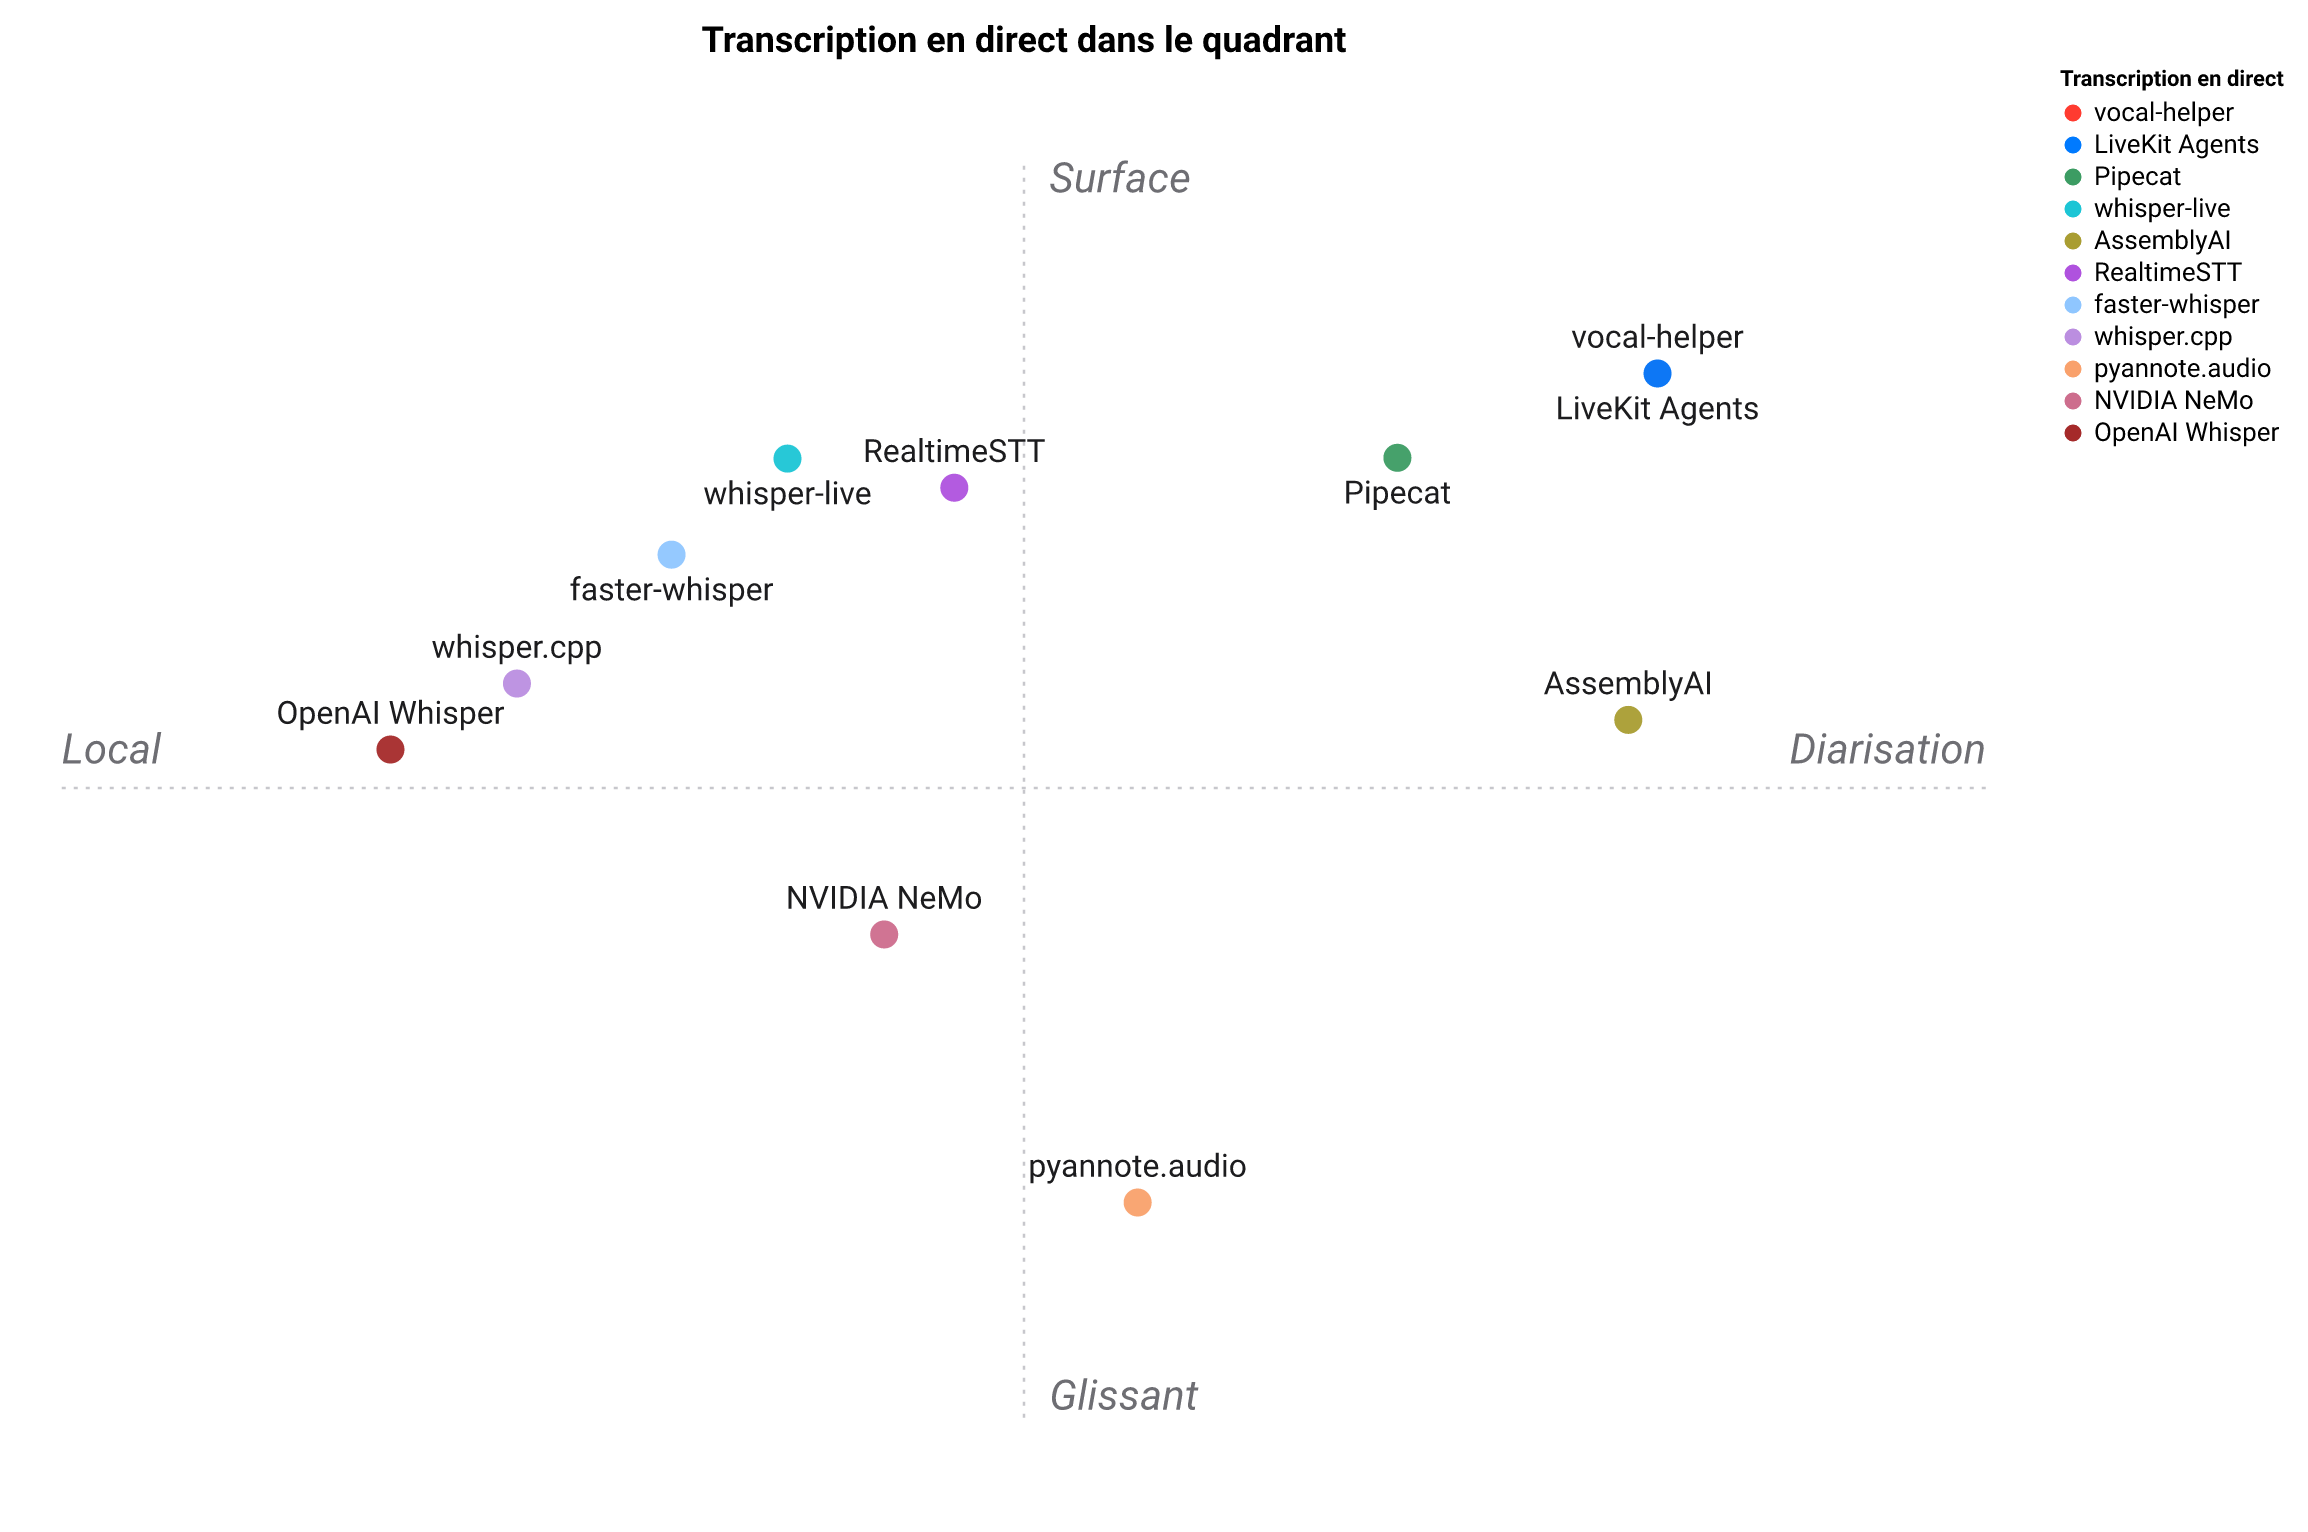
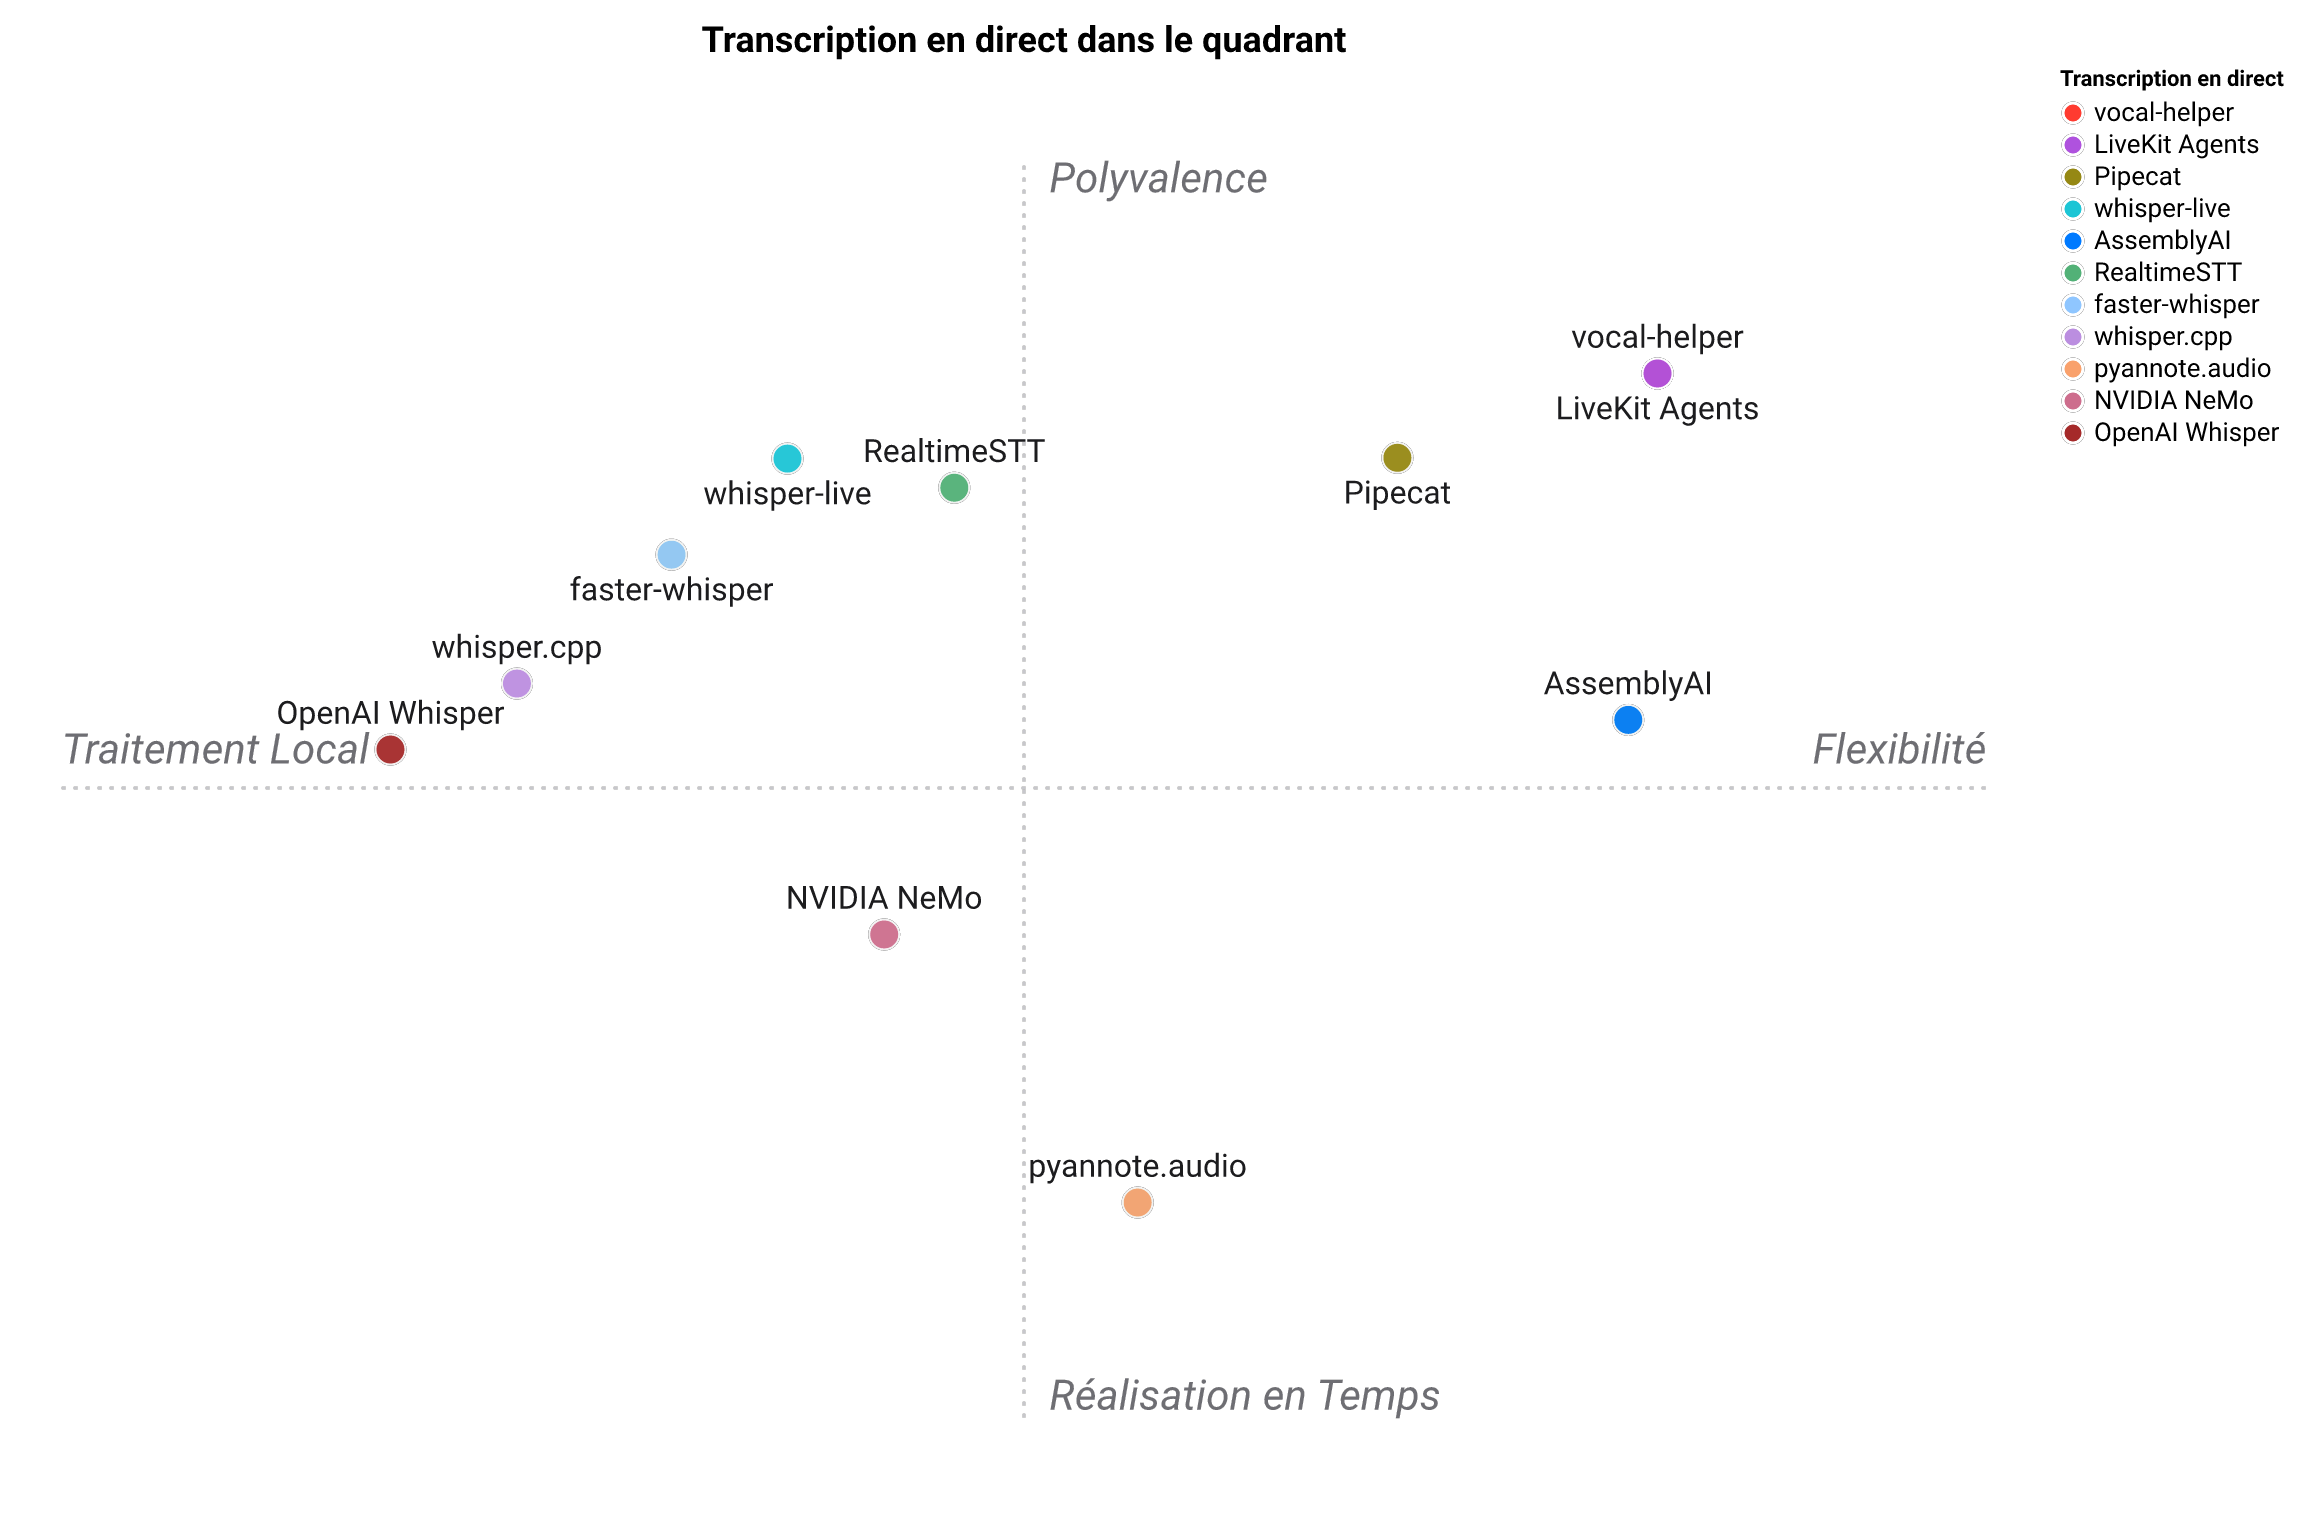
Landscape: CSV as source of truth; regenerate table/figure/commentary
- assets/landscape.csv & assets/paysage.csv are now the committed source of
  truth (integer ratings + domain label in the first cell). The star table, the
  positioning figure and the commentary in LANDSCAPE.md / PAYSAGE.md are
  regenerated from them by scripts/gen_landscape.py (standingpoint, LLM axis
  names), inside managed <!-- TABLE --> / <!-- FIGURE --> marker regions.
- Axis names use the LLM plain-word poles.

diff --git a/LANDSCAPE.md b/LANDSCAPE.md
@@ -14,6 +14,7 @@ non-streaming diarization, general-purpose LLM chat) is not penalised
 
 ## At a glance
 
+<!-- TABLE:START -->
 | Live Transcription | Live streaming | Online diarization | Local-only STT | Rolling LLM summary | Multi-source | Ergonomic Python API | Multi-surface |
 | --- | :---: | :---: | :---: | :---: | :---: | :---: | :---: |
 | **vocal-helper** | ⭐⭐⭐⭐⭐ | ⭐⭐⭐⭐ | ⭐⭐⭐⭐⭐ | ⭐⭐⭐⭐ | ⭐⭐⭐⭐⭐ | ⭐⭐⭐⭐⭐ | ⭐⭐⭐⭐⭐ |
@@ -27,14 +28,17 @@ non-streaming diarization, general-purpose LLM chat) is not penalised
 | Pipecat | ⭐⭐⭐⭐ | ⭐⭐ | ⭐⭐⭐ | ⭐⭐⭐⭐ | ⭐⭐⭐⭐ | ⭐⭐⭐⭐ | ⭐⭐⭐ |
 | OpenAI Whisper | ⭐ | ⭐ | ⭐⭐⭐⭐⭐ | ⭐ | ⭐ | ⭐⭐⭐ | ⭐⭐ |
 | AssemblyAI | ⭐⭐⭐⭐⭐ | ⭐⭐⭐⭐ | ⭐ | ⭐⭐⭐ | ⭐⭐⭐ | ⭐⭐⭐⭐ | ⭐⭐⭐ |
+<!-- TABLE:END -->
 
 ## Positioning map
 
+<!-- FIGURE:START -->
 2D representation of the table above.
 
 ![Positioning map](https://raw.githubusercontent.com/warith-harchaoui/vocal-helper/main/assets/landscape.png)
 
-The map is a 2-D summary of the seven criteria, so read it as a shape, not a scoreboard. `vocal-helper` is at the top-right corner. The axes read **Horizontal — Local ↔ Diarization** and **Vertical — Rolling ↔ Surface**.
+The map is a 2-D summary of the seven criteria, so read it as a shape, not a scoreboard. `vocal-helper` is at the top-right corner. The axes read **Horizontal — Self-reliant ↔ Integrated** and **Vertical — Contextual ↔ Versatile**.
+<!-- FIGURE:END -->
 
 ## Positioning
 

diff --git a/PAYSAGE.md b/PAYSAGE.md
@@ -15,6 +15,7 @@ l'adéquation à *ce* créneau.
 
 ## En un coup d'œil
 
+<!-- TABLE:START -->
 | Transcription en direct | Streaming en direct | Diarisation en ligne | STT 100 % local | Résumé LLM glissant | Multi-source | API Python ergonomique | Multi-surface |
 | --- | :---: | :---: | :---: | :---: | :---: | :---: | :---: |
 | **vocal-helper** | ⭐⭐⭐⭐⭐ | ⭐⭐⭐⭐ | ⭐⭐⭐⭐⭐ | ⭐⭐⭐⭐ | ⭐⭐⭐⭐⭐ | ⭐⭐⭐⭐⭐ | ⭐⭐⭐⭐⭐ |
@@ -28,14 +29,17 @@ l'adéquation à *ce* créneau.
 | Pipecat | ⭐⭐⭐⭐ | ⭐⭐ | ⭐⭐⭐ | ⭐⭐⭐⭐ | ⭐⭐⭐⭐ | ⭐⭐⭐⭐ | ⭐⭐⭐ |
 | OpenAI Whisper | ⭐ | ⭐ | ⭐⭐⭐⭐⭐ | ⭐ | ⭐ | ⭐⭐⭐ | ⭐⭐ |
 | AssemblyAI | ⭐⭐⭐⭐⭐ | ⭐⭐⭐⭐ | ⭐ | ⭐⭐⭐ | ⭐⭐⭐ | ⭐⭐⭐⭐ | ⭐⭐⭐ |
+<!-- TABLE:END -->
 
 ## Carte de positionnement
 
+<!-- FIGURE:START -->
 Représentation 2D du tableau ci-dessus.
 
 ![Carte de positionnement](https://raw.githubusercontent.com/warith-harchaoui/vocal-helper/main/assets/paysage.png)
 
-La carte est un résumé en 2D des 7 critères : à lire comme une forme, pas comme un classement. « vocal-helper » se situe dans le coin en haut à droite. Les axes se lisent **Horizontal — Local ↔ Diarisation** et **Vertical — Glissant ↔ Surface**.
+La carte est un résumé en 2D des 7 critères : à lire comme une forme, pas comme un classement. « vocal-helper » se situe dans le coin en haut à droite. Les axes se lisent **Horizontal — Traitement Local ↔ Flexibilité** et **Vertical — Réalisation en Temps ↔ Polyvalence**.
+<!-- FIGURE:END -->
 
 ## Positionnement
 